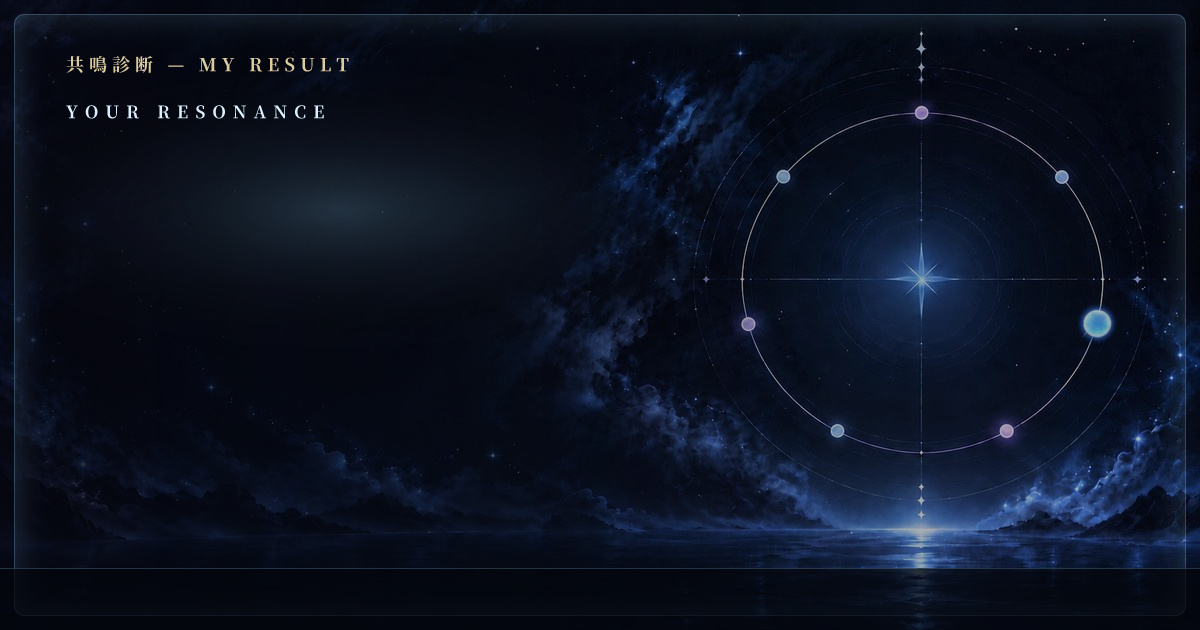
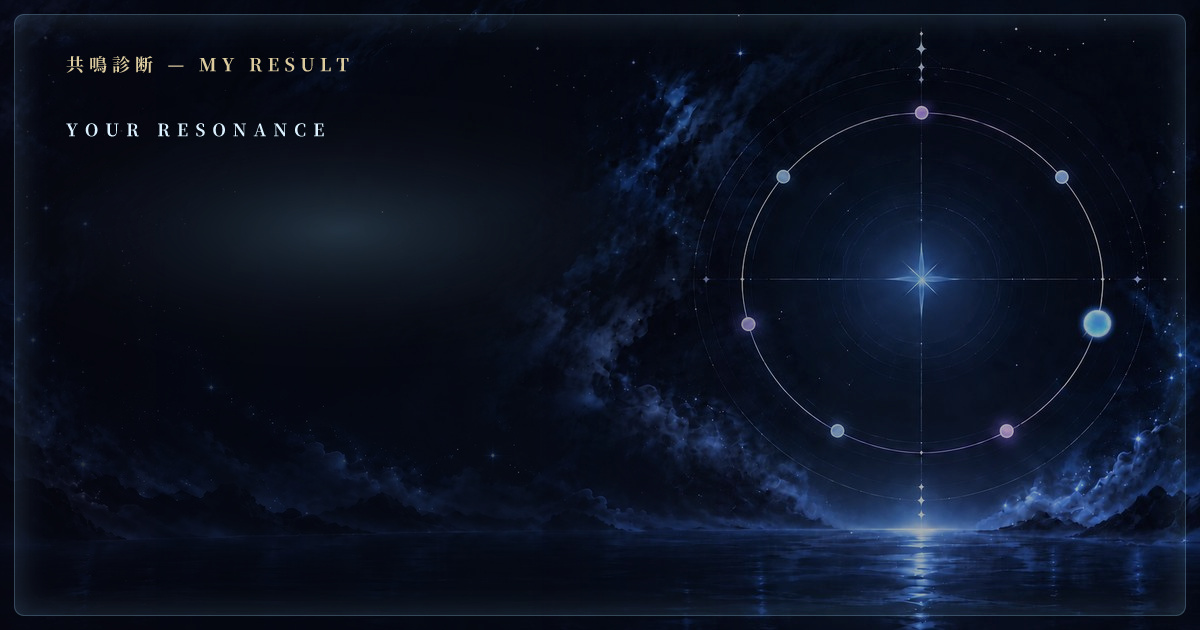
共鳴診断：完了画面の人物の補足文と、シェア画像の下帯の文を削除
- 完了画面の「〔人物名〕は、3つの答えから映した…」の一文を削除
- シェア画像（m3）の下帯（私の結果は【…】）を描かない。空いた分、文字の並びを少し下げて上下の釣り合いを取る（下地7枚を作り直し）

Claude-Session: https://claude.ai/code/session_01G98Q4iAUFxr7fH8DRHgnDP

Changed region(s): [[0.555, 0.8746, 1.0, 1.0], [0.0617, 0.1508, 0.2775, 0.2111]]

diff --git a/tests/resonance.test.js b/tests/resonance.test.js
@@ -291,8 +291,8 @@ test('画像（/api/og-image?m3=）：共鳴診断の下地に人物名を大き
   const d = { name: 'アルレッキーノ', charElement: '炎', code: 'CRSW', typeName: '宿縁者', element: '氷', weapon: '片手剣', nation: 'スネージナヤ', header: '共鳴診断 — MY RESULT' };
   for (const o of [{ backgroundUrl: 'data:bg' }, { part: 'overlay', baseUrl: 'data:base' }]) {
     const t = texts(buildRevealCardTree(d, o)).join('|');
-    assert.match(t, /アルレッキーノ\|YOUR TYPE\|CRSW\|宿縁者\|氷\|片手剣\|スネージナヤ\|共鳴診断 — 私の結果は【氷 × 片手剣 × スネージナヤ】/);
-    assert.doesNotMatch(t, /最も近しい|一致|SELF IMAGE|-/);
+    assert.match(t, /アルレッキーノ\|YOUR TYPE\|CRSW\|宿縁者\|氷\|片手剣\|スネージナヤ$/);
+    assert.doesNotMatch(t, /最も近しい|一致|SELF IMAGE|私の結果は|-/); // 下帯の文は描かない
   }
   const base = texts(buildRevealCardTree({ charElement: '炎', element: '炎', name: '', header: '共鳴診断 — MY RESULT' }, { part: 'base', backgroundUrl: 'data:bg' })).join('|');
   assert.equal(base, '共鳴診断 — MY RESULT|YOUR RESONANCE'); // 下地は人物の元素だけで決まる（人ごとの文字を含まない）
@@ -307,7 +307,7 @@ test('画像（/api/og-image?m3=）：共鳴診断の下地に人物名を大き
   for (const n of D.CHAR_NAMES) assert.ok(revealNameSize(n) * 1.06 * n.length + 6 * n.length <= REVEAL_LAYOUT.nameWidth + 6 * 7 + 40, n);
   const covered = new Set([...Object.keys(D.ELEMENT_CODE), ...Object.keys(D.WEAPON_CODE), ...D.PACK_NATIONS, ...Object.values(D.TYPE_NAME).flatMap(Object.values),
     ...D.CHAR_NAMES, '最も近しいキャラクター', '元素診断 — 私の結果は【】×', '元素診断 — MY RESULT', '0123456789%一致', 'ABCDEFGHIJKLMNOPQRSTUVWXYZ '].join(''));
-  for (const str of ['YOUR RESONANCE', 'YOUR TYPE', '共鳴診断 — 私の結果は【】×', '共鳴診断 — MY RESULT']) for (const ch of str) assert.ok(covered.has(ch), `「${ch}」`);
+  for (const str of ['YOUR RESONANCE', 'YOUR TYPE', '共鳴診断 — MY RESULT']) for (const ch of str) assert.ok(covered.has(ch), `「${ch}」`);
 });
 
 test('画像の見出し：共鳴診断（m2）は「共鳴診断 — MY RESULT」の下地35枚を使い、本家・旧 m1 は従来の「元素診断 — MY RESULT」のまま', async () => {

diff --git a/resonance.html b/resonance.html
@@ -492,7 +492,6 @@
     var p = $('rAbout'); p.textContent = '';
     [['「', r.words.elementKeyword, '」という気質を持ちながら、'], ['「', r.words.weaponStyle, '」というかたちで人と関わり、'], ['「', r.words.nationMeaning, '」を大切にする人。']]
       .forEach(function (part) { p.appendChild(document.createTextNode(part[0])); p.appendChild(el('strong', null, part[1])); p.appendChild(document.createTextNode(part[2])); });
-    p.appendChild(el('span', 'small', name + 'は、3つの答えから映した、アナタに共鳴する人物です。人物自身の元素・武器種・国家は、アナタの結果と同じとは限りません。'));
     document.querySelectorAll('.demo-char, .demo-char-svg').forEach(function (el) { el.textContent = name; });
     lastResult = r;
     lastShare = S.packReveal(r.element, r.weapon, r.nation, CHAR_INDEX[name]);

diff --git a/docs/eti-mini/RESONANCE_C0.md b/docs/eti-mini/RESONANCE_C0.md
@@ -67,6 +67,7 @@ C-0 の「SELF IMAGE と MIRROR の2人比較」をやめ、3問で人物が1名
 - **星座はキャラの色**：完了画面・Xシェアから開いたページとも、星座・夜空の灯り・人物名のグラデーションは現れたキャラの元素
 - **OGP 画像（呟く際の画像）を人物が主役のレイアウトに**（`js/ogp-card.mjs` の `buildRevealCardTree`）：
   - 背景（星座の円環）・名前のグラデーション・名前の後ろの光・枠の色はキャラの元素。元素のタグだけ本人の元素の色
-  - 情報は本家と同じ：見出し「共鳴診断 — MY RESULT」、YOUR RESONANCE と人物名（いちばん大きく）、YOUR TYPE とタイプコード4文字（本家と同じ。「-」は同梱フォントに無い）・タイプ名、元素／武器種／国家のタグ、下帯「共鳴診断 — 私の結果は【元素 × 武器種 × 国家】」
+  - 情報は本家と同じ：見出し「共鳴診断 — MY RESULT」、YOUR RESONANCE と人物名（いちばん大きく）、YOUR TYPE とタイプコード4文字（本家と同じ。「-」は同梱フォントに無い）・タイプ名、元素／武器種／国家のタグ。下帯の文は描かない（オーナー指示）
   - 下地はキャラの元素ごとの7枚（`assets/ogp/bases-reveal/<元素キー>.jpg`、`node scripts/build-ogp-bases.mjs --reveal --quality 95`）。取れない時は正式背景から1枚を描く。本家・旧 m1・m2 の画像は変更なし
 - ¥500 の見本の図は固定のダミー（人物名は PERSONA だけ）、タイプの説明文は従来のまま
+- 完了画面の「〔人物名〕は、3つの答えから映した…」の一文は削除（オーナー指示）
